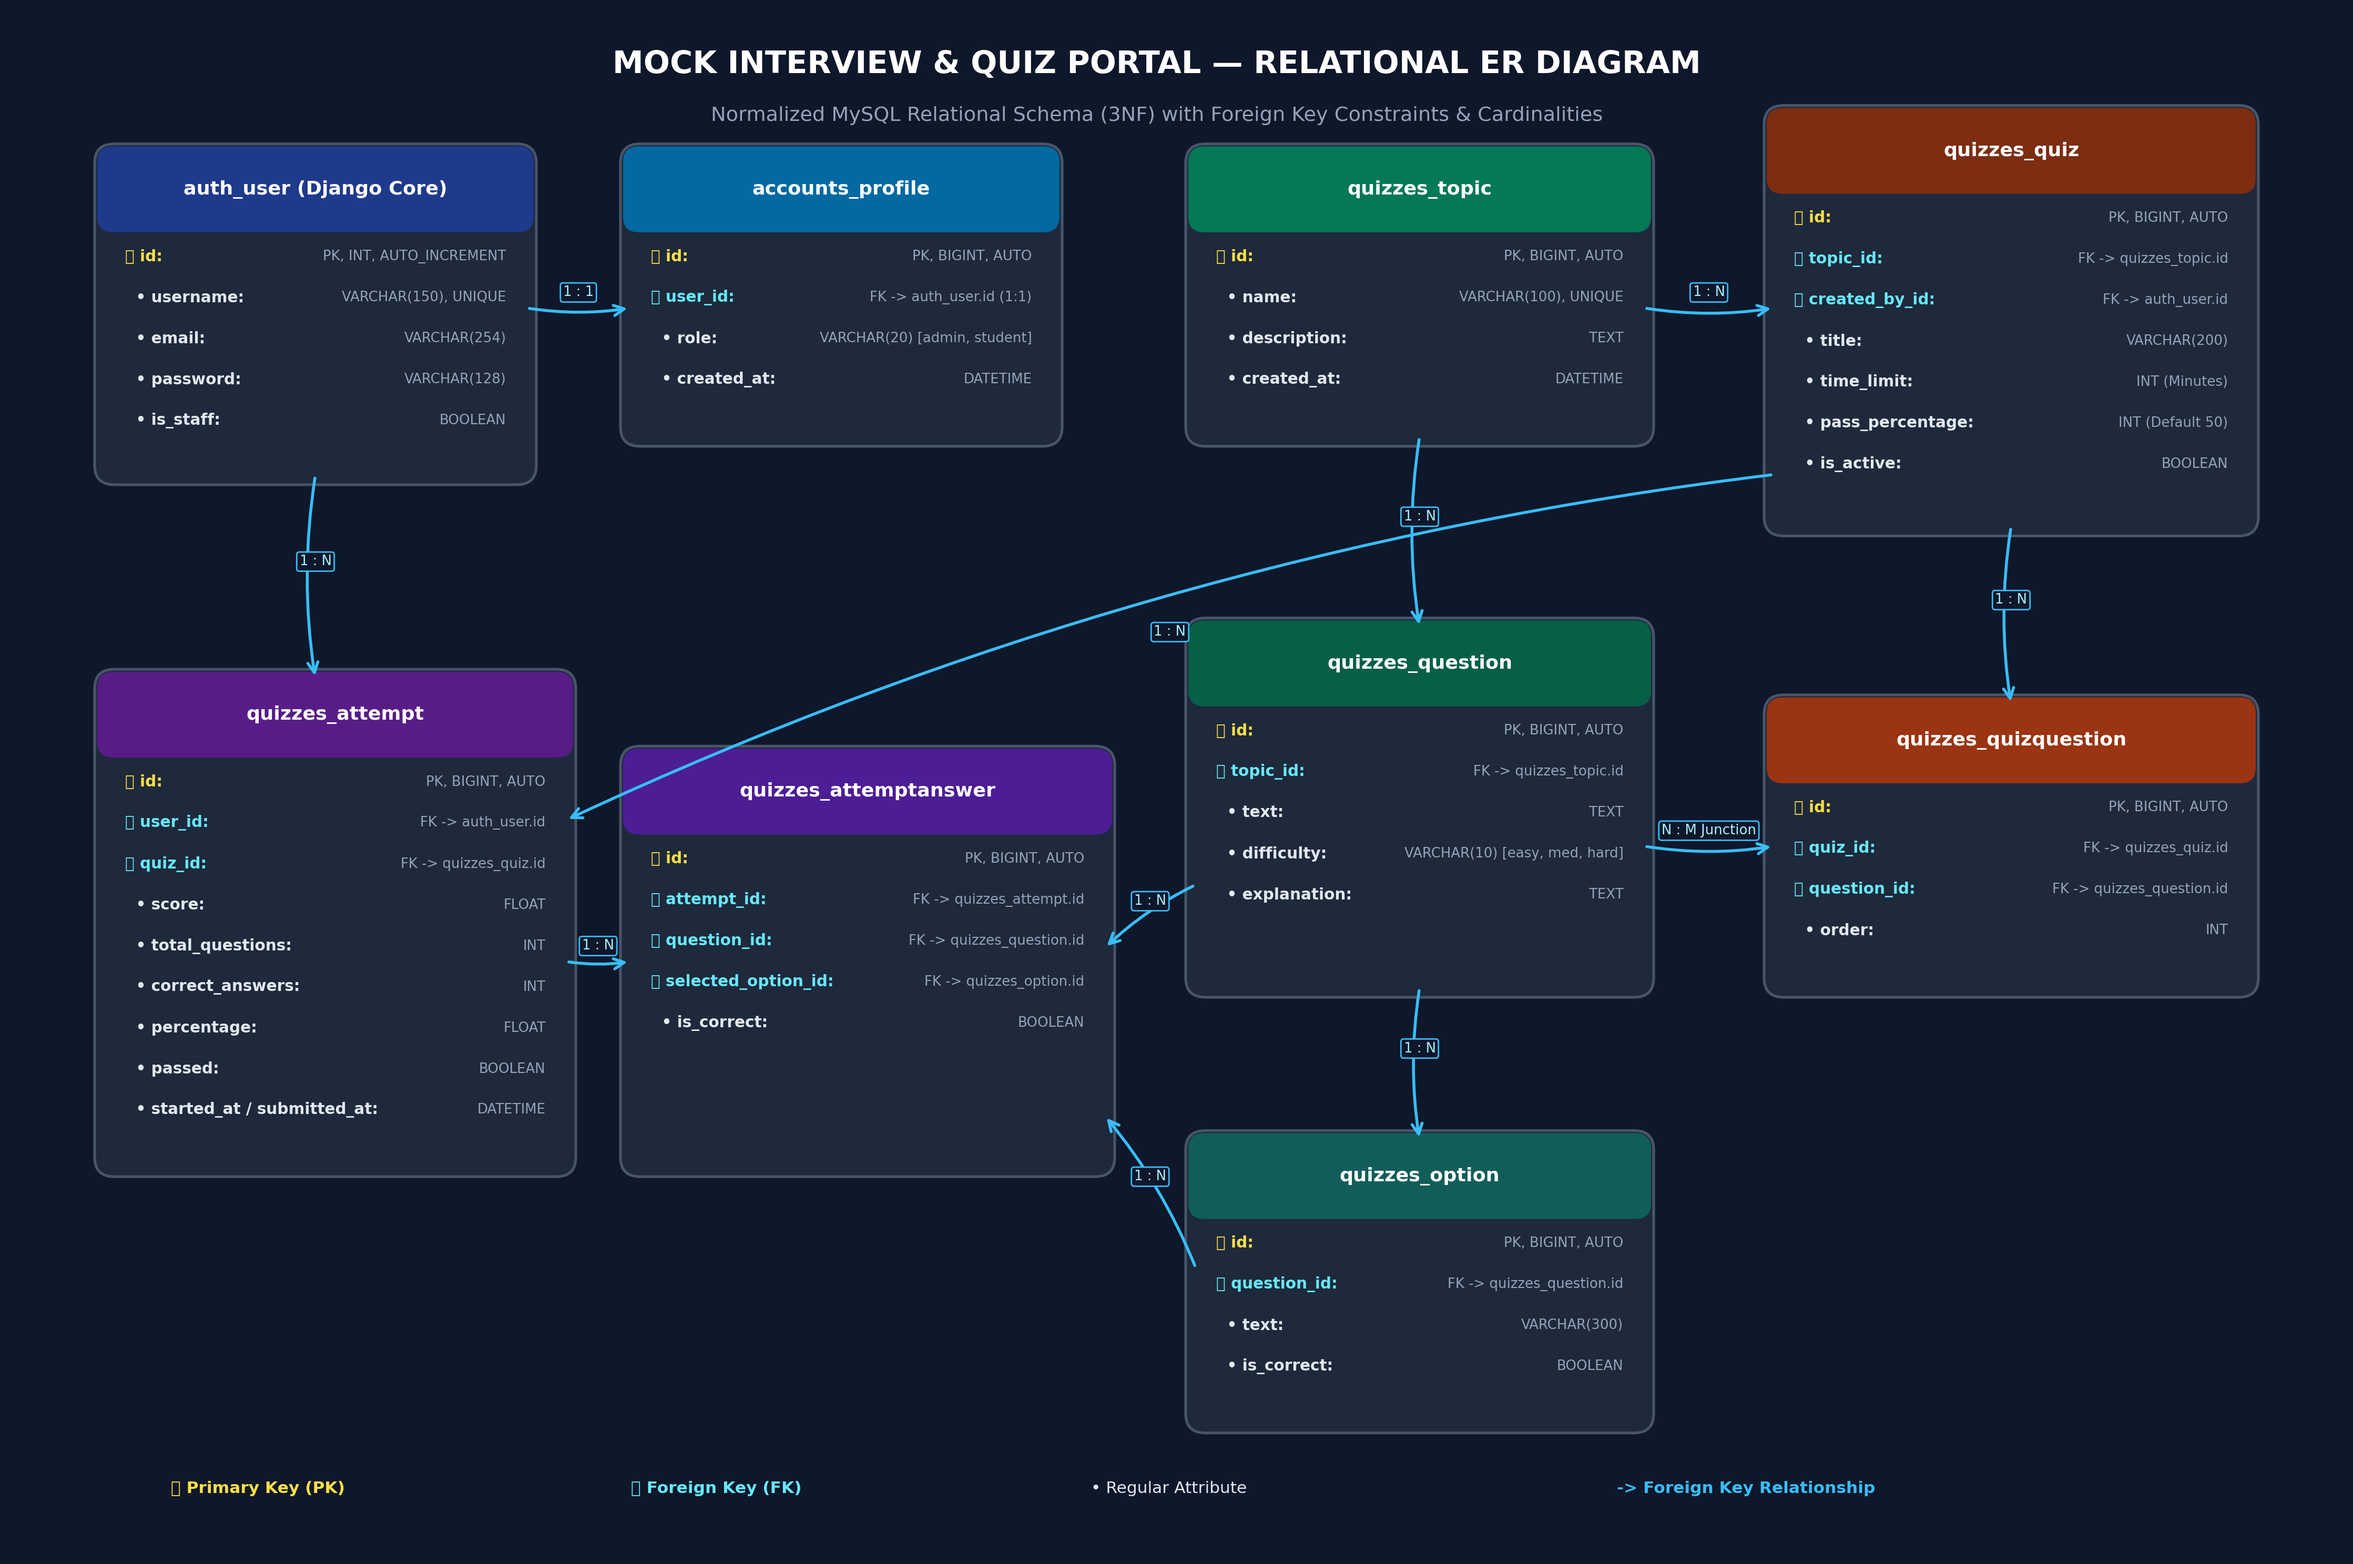
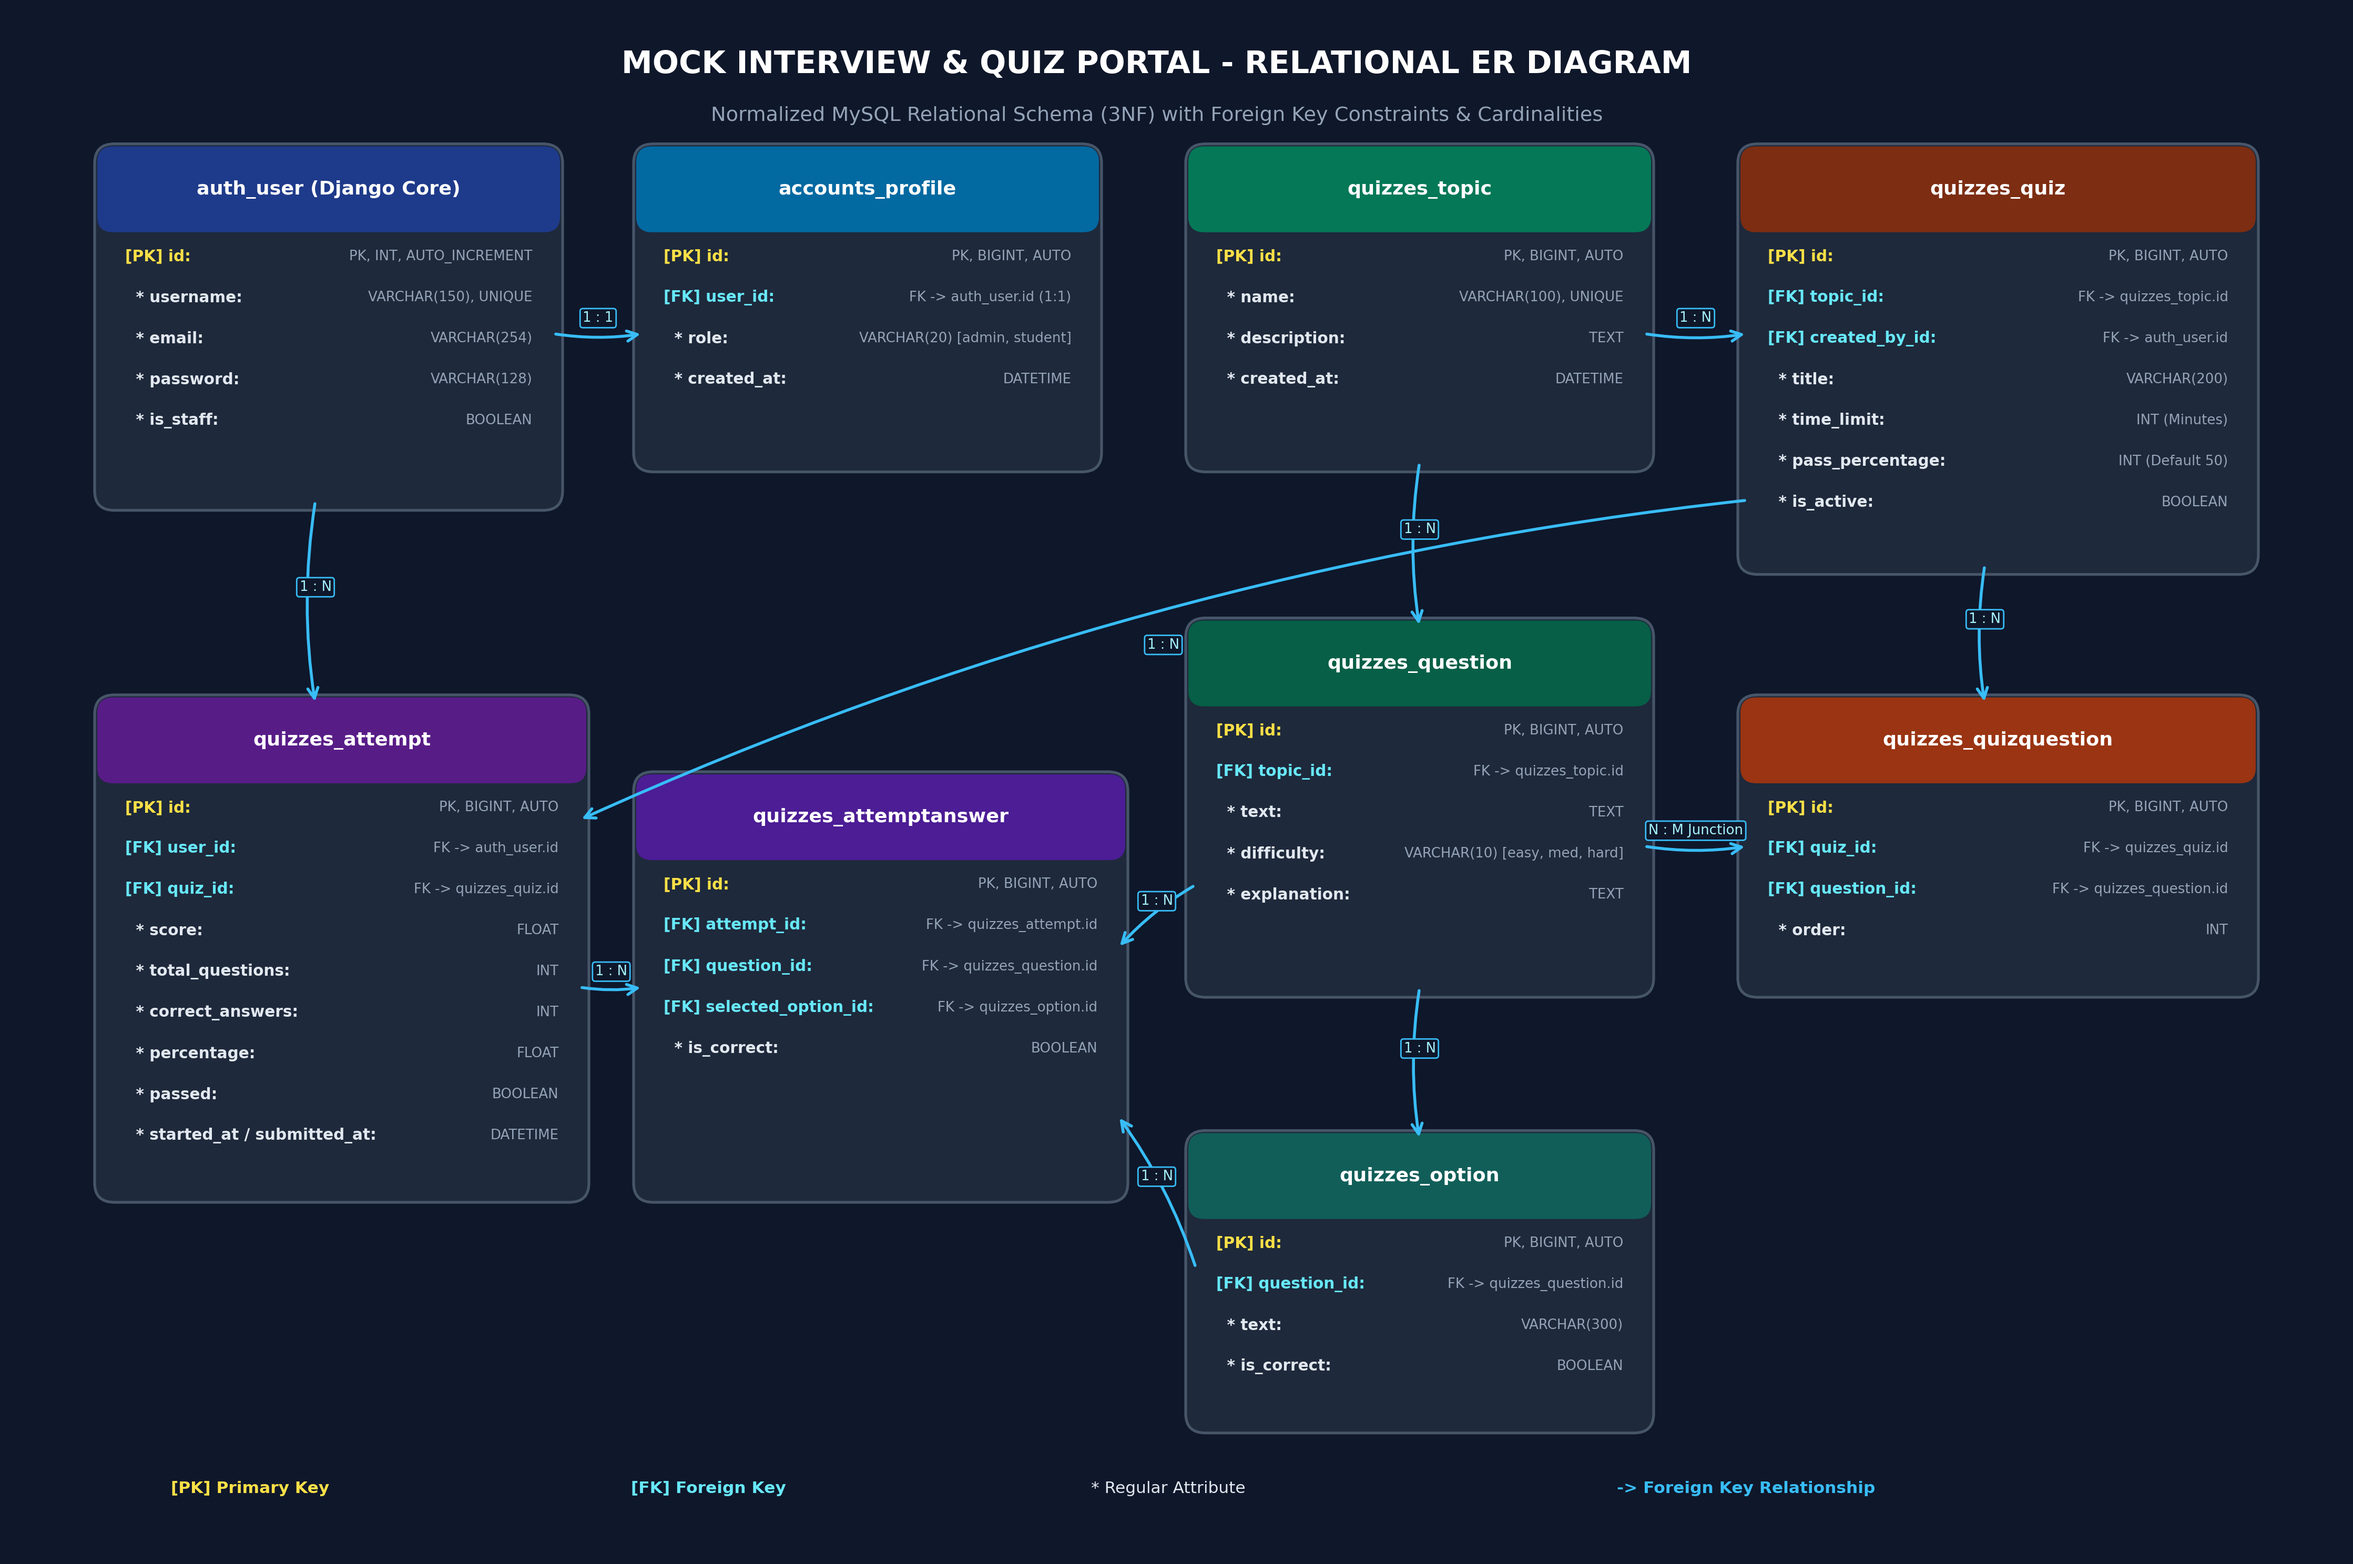
feat: update ER diagram and documentation

diff --git a/generate_er_diagram.py b/generate_er_diagram.py
@@ -7,12 +7,11 @@ fig, ax = plt.subplots(figsize=(18, 12), dpi=200)
 ax.set_facecolor('#0f172a')
 fig.patch.set_facecolor('#0f172a')
 
-# Table definitions: (name, x, y, width, height, color, fields)
 tables = [
     # Top Row: Core Users & Subjects
     {
         "name": "auth_user (Django Core)",
-        "x": 0.5, "y": 8.2, "w": 3.2, "h": 2.5, "color": "#1e3a8a",
+        "x": 0.5, "y": 8.0, "w": 3.4, "h": 2.7, "color": "#1e3a8a",
         "fields": [
             ("id", "PK, INT, AUTO_INCREMENT", True, False),
             ("username", "VARCHAR(150), UNIQUE", False, False),
@@ -23,7 +22,7 @@ tables = [
     },
     {
         "name": "accounts_profile",
-        "x": 4.5, "y": 8.5, "w": 3.2, "h": 2.2, "color": "#0369a1",
+        "x": 4.6, "y": 8.3, "w": 3.4, "h": 2.4, "color": "#0369a1",
         "fields": [
             ("id", "PK, BIGINT, AUTO", True, False),
             ("user_id", "FK -> auth_user.id (1:1)", False, True),
@@ -33,7 +32,7 @@ tables = [
     },
     {
         "name": "quizzes_topic",
-        "x": 8.8, "y": 8.5, "w": 3.4, "h": 2.2, "color": "#047857",
+        "x": 8.8, "y": 8.3, "w": 3.4, "h": 2.4, "color": "#047857",
         "fields": [
             ("id", "PK, BIGINT, AUTO", True, False),
             ("name", "VARCHAR(100), UNIQUE", False, False),
@@ -43,7 +42,7 @@ tables = [
     },
     {
         "name": "quizzes_quiz",
-        "x": 13.2, "y": 7.8, "w": 3.6, "h": 3.2, "color": "#7c2d12",
+        "x": 13.0, "y": 7.5, "w": 3.8, "h": 3.2, "color": "#7c2d12",
         "fields": [
             ("id", "PK, BIGINT, AUTO", True, False),
             ("topic_id", "FK -> quizzes_topic.id", False, True),
@@ -69,7 +68,7 @@ tables = [
     },
     {
         "name": "quizzes_quizquestion",
-        "x": 13.2, "y": 4.2, "w": 3.6, "h": 2.2, "color": "#9a3412",
+        "x": 13.0, "y": 4.2, "w": 3.8, "h": 2.2, "color": "#9a3412",
         "fields": [
             ("id", "PK, BIGINT, AUTO", True, False),
             ("quiz_id", "FK -> quizzes_quiz.id", False, True),
@@ -91,7 +90,7 @@ tables = [
     # Bottom Row: Attempts & Answers
     {
         "name": "quizzes_attempt",
-        "x": 0.5, "y": 2.8, "w": 3.5, "h": 3.8, "color": "#581c87",
+        "x": 0.5, "y": 2.6, "w": 3.6, "h": 3.8, "color": "#581c87",
         "fields": [
             ("id", "PK, BIGINT, AUTO", True, False),
             ("user_id", "FK -> auth_user.id", False, True),
@@ -106,7 +105,7 @@ tables = [
     },
     {
         "name": "quizzes_attemptanswer",
-        "x": 4.5, "y": 2.8, "w": 3.6, "h": 3.2, "color": "#4c1d95",
+        "x": 4.6, "y": 2.6, "w": 3.6, "h": 3.2, "color": "#4c1d95",
         "fields": [
             ("id", "PK, BIGINT, AUTO", True, False),
             ("attempt_id", "FK -> quizzes_attempt.id", False, True),
@@ -140,7 +139,7 @@ for t in tables:
     # Fields
     field_y = y + h - header_h - 0.25
     for name, desc, is_pk, is_fk in t["fields"]:
-        prefix = "🔑 " if is_pk else ("🔗 " if is_fk else "  • ")
+        prefix = "[PK] " if is_pk else ("[FK] " if is_fk else "  * ")
         field_color = "#fde047" if is_pk else ("#67e8f9" if is_fk else "#e2e8f0")
         ax.text(x + 0.15, field_y, f"{prefix}{name}:", color=field_color, fontsize=8.5, fontweight='bold', va='center')
         ax.text(x + w - 0.15, field_y, desc, color='#94a3b8', fontsize=7.5, ha='right', va='center')
@@ -149,27 +148,27 @@ for t in tables:
 # Relationships lines (start_x, start_y, end_x, end_y, label)
 arrows = [
     # User to Profile (1:1)
-    (3.7, 9.5, 4.5, 9.5, "1 : 1"),
+    (3.9, 9.3, 4.6, 9.3, "1 : 1"),
     # Topic to Question (1:N)
-    (10.5, 8.5, 10.5, 7.0, "1 : N"),
+    (10.5, 8.3, 10.5, 7.0, "1 : N"),
     # Topic to Quiz (1:N)
-    (12.2, 9.5, 13.2, 9.5, "1 : N"),
+    (12.2, 9.3, 13.0, 9.3, "1 : N"),
     # Question to Option (1:N)
     (10.5, 4.2, 10.5, 3.0, "1 : N"),
     # Quiz to QuizQuestion (1:N)
-    (15.0, 7.8, 15.0, 6.4, "1 : N"),
+    (14.8, 7.5, 14.8, 6.4, "1 : N"),
     # Question to QuizQuestion (1:N)
-    (12.2, 5.3, 13.2, 5.3, "N : M Junction"),
+    (12.2, 5.3, 13.0, 5.3, "N : M Junction"),
     # User to Attempt (1:N)
-    (2.1, 8.2, 2.1, 6.6, "1 : N"),
+    (2.1, 8.0, 2.1, 6.4, "1 : N"),
     # Quiz to Attempt (1:N)
-    (13.2, 8.2, 4.0, 5.5, "1 : N"),
+    (13.0, 8.0, 4.1, 5.5, "1 : N"),
     # Attempt to AttemptAnswer (1:N)
-    (4.0, 4.4, 4.5, 4.4, "1 : N"),
+    (4.1, 4.2, 4.6, 4.2, "1 : N"),
     # Question to AttemptAnswer (1:N)
-    (8.8, 5.0, 8.1, 4.5, "1 : N"),
+    (8.8, 5.0, 8.2, 4.5, "1 : N"),
     # Option to AttemptAnswer (1:N)
-    (8.8, 2.0, 8.1, 3.2, "1 : N"),
+    (8.8, 2.0, 8.2, 3.2, "1 : N"),
 ]
 
 for sx, sy, ex, ey, label in arrows:
@@ -178,30 +177,28 @@ for sx, sy, ex, ey, label in arrows:
         arrowprops=dict(arrowstyle="->", color="#38bdf8", lw=1.6, mutation_scale=14,
                         connectionstyle="arc3,rad=0.08")
     )
-    # text at midpoint
     mx, my = (sx + ex) / 2, (sy + ey) / 2
     ax.text(mx, my + 0.12, label, color="#a5f3fc", fontsize=7.5,
             bbox=dict(boxstyle="round,pad=0.2", fc="#0f172a", ec="#38bdf8", lw=0.8),
             ha='center', va='center')
 
 # Title & Legend
-ax.text(8.5, 11.4, "MOCK INTERVIEW & QUIZ PORTAL — RELATIONAL ER DIAGRAM",
+ax.text(8.5, 11.4, "MOCK INTERVIEW & QUIZ PORTAL - RELATIONAL ER DIAGRAM",
         color='#ffffff', fontsize=17, fontweight='bold', ha='center', va='center')
 ax.text(8.5, 11.0, "Normalized MySQL Relational Schema (3NF) with Foreign Key Constraints & Cardinalities",
         color='#94a3b8', fontsize=11, ha='center', va='center')
 
 # Legend
 legend_y = 0.25
-ax.text(1.0, legend_y, "🔑 Primary Key (PK)", color="#fde047", fontsize=9, fontweight='bold')
-ax.text(4.5, legend_y, "🔗 Foreign Key (FK)", color="#67e8f9", fontsize=9, fontweight='bold')
-ax.text(8.0, legend_y, "• Regular Attribute", color="#e2e8f0", fontsize=9)
+ax.text(1.0, legend_y, "[PK] Primary Key", color="#fde047", fontsize=9, fontweight='bold')
+ax.text(4.5, legend_y, "[FK] Foreign Key", color="#67e8f9", fontsize=9, fontweight='bold')
+ax.text(8.0, legend_y, "* Regular Attribute", color="#e2e8f0", fontsize=9)
 ax.text(12.0, legend_y, "-> Foreign Key Relationship", color="#38bdf8", fontsize=9, fontweight='bold')
 
 ax.set_xlim(-0.2, 17.5)
 ax.set_ylim(-0.2, 11.8)
 ax.axis('off')
 
-# Ensure output directory exists
 os.makedirs('quiz-portal/docs', exist_ok=True)
 output_path = 'quiz-portal/docs/er_diagram.png'
 plt.tight_layout()
